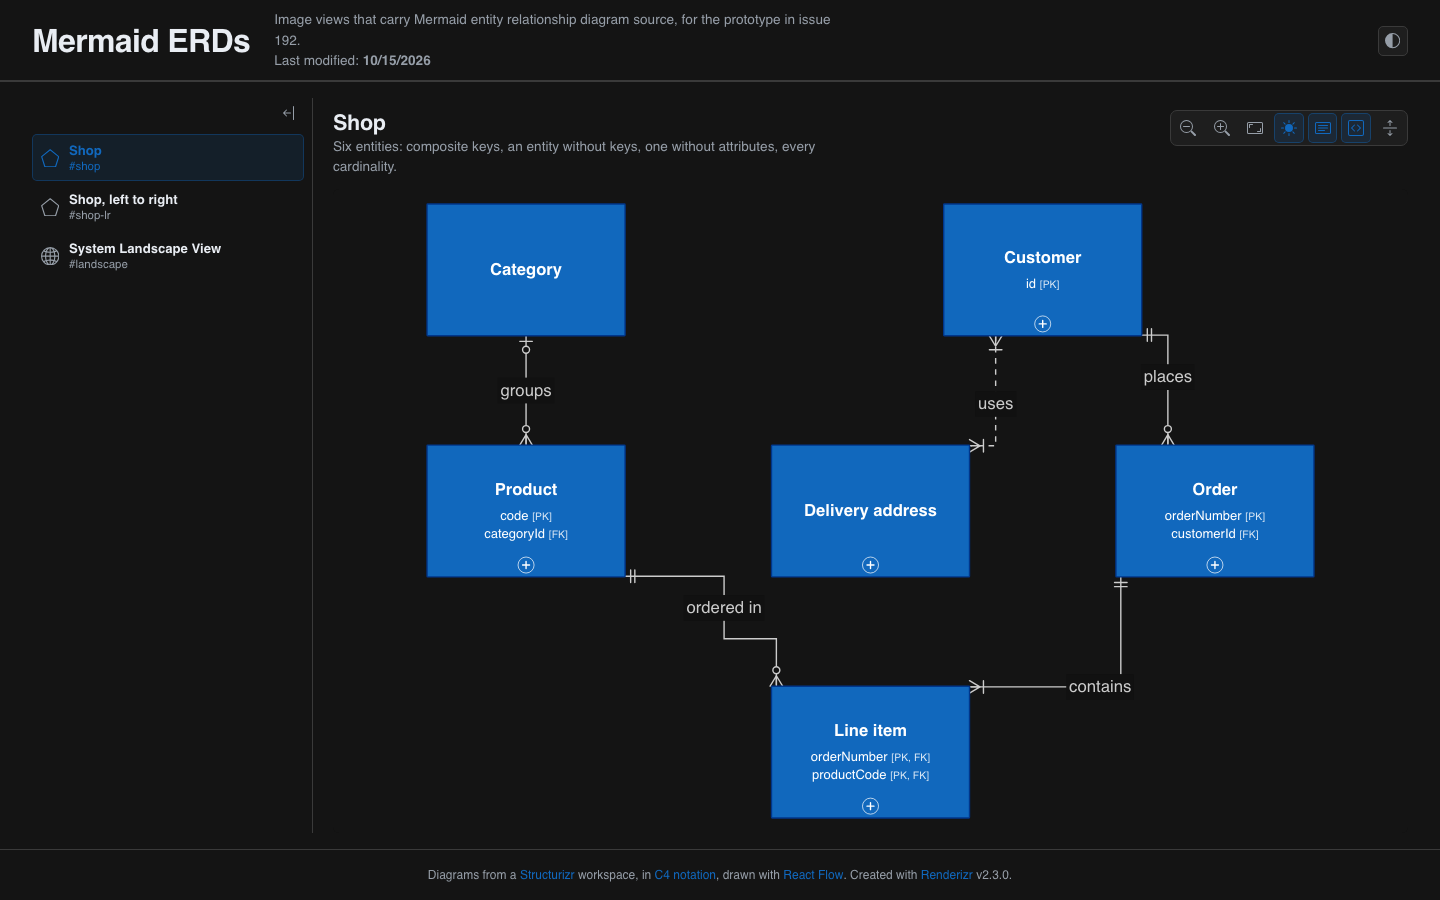
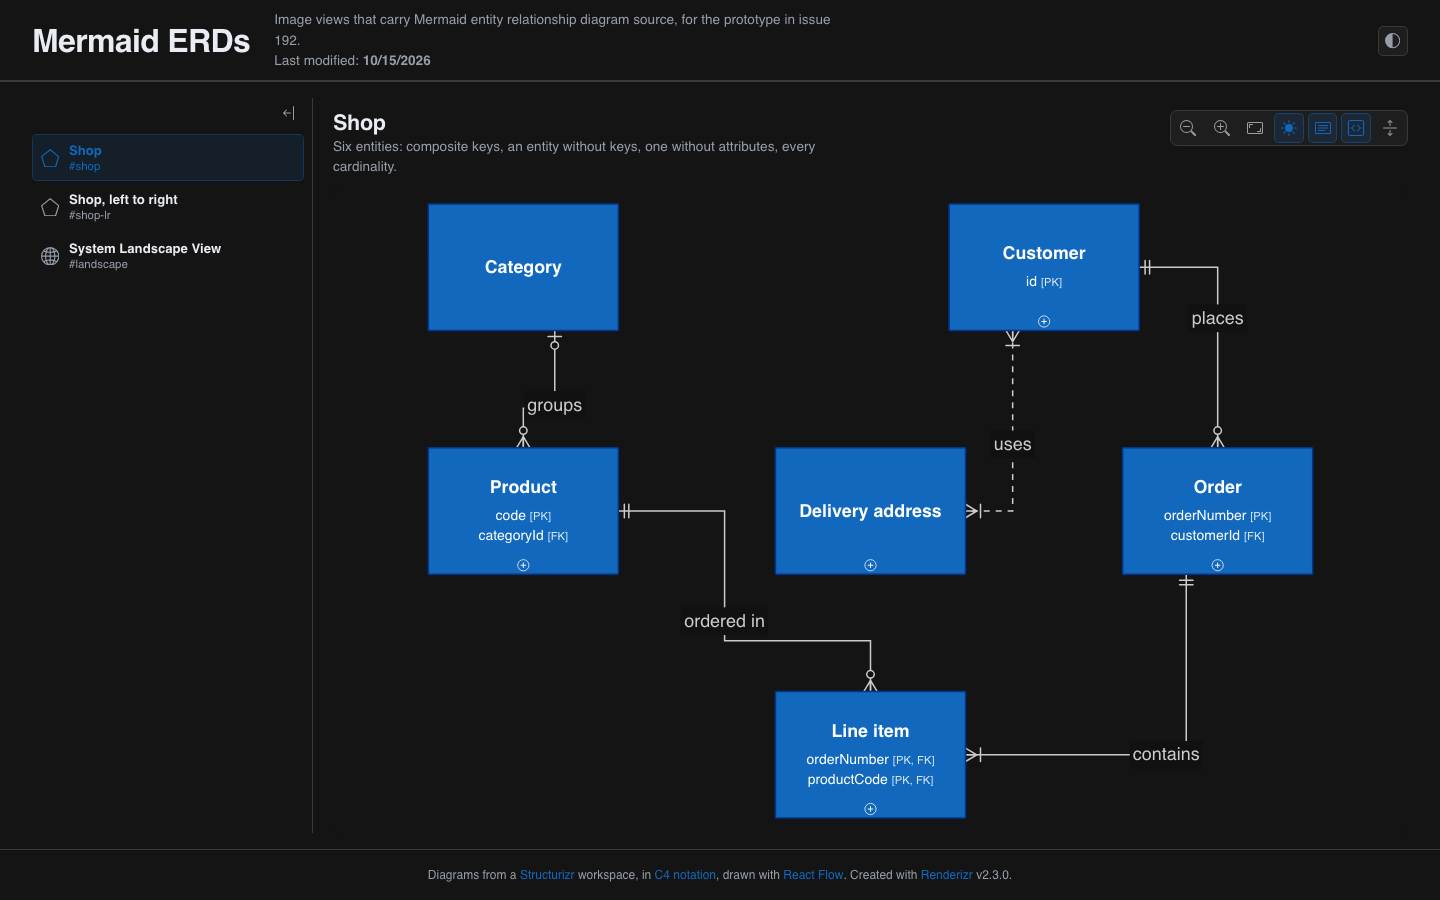
chore: center Mermaid edge ends, keep entities with no attributes collapsed and shrink the toggle

diff --git a/src/engine/geometry/routing/sides.ts b/src/engine/geometry/routing/sides.ts
@@ -176,6 +176,11 @@ export type EdgeEnd = {
      * (ADR 19).
      */
     routed?: boolean;
+    /**
+     * PROTOTYPE (issue 192): a Mermaid edge's end, spread evenly around the
+     * side's center, in aim order, in place of aiming at the far end.
+     */
+    centered?: boolean;
 };
 
 /** Where an end sorts on its side: loop ends at either extreme. */
@@ -302,9 +307,27 @@ export function spreadEnds(
         const aim = (end: EdgeEnd) => aims.get(end)!;
         const sorted = onSide.sort((a, b) => compareEnds(a, b, aim));
         const gap = (span.to - span.from) / (sorted.length + 1);
-        const wanted = sorted.map((end, i) =>
-            end.toward ? span.from + (i + 1) * gap : aim(end),
+        let wanted = sorted.map((end, i) =>
+            end.toward || end.centered ? span.from + (i + 1) * gap : aim(end),
         );
+        // PROTOTYPE (issue 192): the bottom center holds an entity's toggle,
+        // so an odd number of Mermaid ends there takes one slot more and
+        // leaves out the one on the far side from where they aim.
+        if (
+            side === "bottom" &&
+            sorted.length % 2 === 1 &&
+            sorted.every((end) => end.centered)
+        ) {
+            const slot = (span.to - span.from) / (sorted.length + 2);
+            const slots = Array.from(
+                { length: sorted.length + 1 },
+                (_, i) => span.from + (i + 1) * slot,
+            );
+            const middle = (span.from + span.to) / 2;
+            const mean =
+                sorted.reduce((sum, end) => sum + aim(end), 0) / sorted.length;
+            wanted = mean < middle ? slots.slice(0, -1) : slots.slice(1);
+        }
         const placed = keepApart(wanted, gap, span);
         for (const [i, end] of sorted.entries()) along.set(end.id, placed[i]);
     }

diff --git a/src/engine/react-flow/island.tsx b/src/engine/react-flow/island.tsx
@@ -407,14 +407,14 @@ function EntityBody({ data }: { data: ElementBox }) {
             style={{
                 position: "absolute",
                 left: "50%",
-                bottom: 5,
+                bottom: 4,
                 transform: "translateX(-50%)",
-                width: 24,
-                height: 24,
+                width: 16,
+                height: 16,
                 padding: 0,
                 display: "grid",
                 placeItems: "center",
-                border: "1.5px solid currentColor",
+                border: "1px solid currentColor",
                 borderRadius: "50%",
                 background: "transparent",
                 color: "inherit",
@@ -422,7 +422,7 @@ function EntityBody({ data }: { data: ElementBox }) {
                 pointerEvents: "all",
             }}
         >
-            <svg width="16" height="16" viewBox="0 0 16 16" aria-hidden="true">
+            <svg width="10" height="10" viewBox="0 0 16 16" aria-hidden="true">
                 <path
                     d={entity.collapsed ? "M3 8h10M8 3v10" : "M3 8h10"}
                     fill="none"

diff --git a/src/engine/react-flow/graph.ts b/src/engine/react-flow/graph.ts
@@ -729,9 +729,11 @@ function drawView(
                 : layOutEntity(
                       placed.element.name,
                       JSON.parse(attributes) as Attribute[],
-                      labels.entityOverrides?.[entityId] ??
-                          labels.entitiesCollapsed ??
-                          true,
+                      // An entity with no attributes never expands.
+                      attributes === "[]" ||
+                          (labels.entityOverrides?.[entityId] ??
+                              labels.entitiesCollapsed ??
+                              true),
                       labels.descriptions,
                       style.fontSize,
                       measure,

diff --git a/src/engine/geometry/routing/route-view.ts b/src/engine/geometry/routing/route-view.ts
@@ -167,6 +167,7 @@ export function routeView(
             far: vertices[0] ?? centerOf(to),
             order: index,
             routed: vertices.length > 0,
+            centered: (edge.endRoom ?? 0) > 0,
         });
         addEnd(target.id, {
             id: targetEnd(index),
@@ -174,6 +175,7 @@ export function routeView(
             far: vertices[vertices.length - 1] ?? centerOf(from),
             order: index,
             routed: vertices.length > 0,
+            centered: (edge.endRoom ?? 0) > 0,
         });
     }
 

diff --git a/src/engine/geometry/entity.ts b/src/engine/geometry/entity.ts
@@ -32,7 +32,7 @@ export type EntityLayout = {
 const CELL_PADDING = 12;
 const HEADER_PADDING = 15;
 /** The band at the bottom of an entity that holds its plus or minus toggle. */
-export const TOGGLE_ROOM = 34;
+export const TOGGLE_ROOM = 24;
 
 const isKey = (attribute: Attribute) =>
     attribute.keys.includes("PK") || attribute.keys.includes("FK");

diff --git a/research/192-erd-entity-prototype.md b/research/192-erd-entity-prototype.md
@@ -39,6 +39,8 @@ Open the **Shop** or **Shop, left to right** view.
 - **Spacing.** With the flowchart's spacing, routes and labels crowded between close entities and hugged their sides. Mermaid's ERD spacing leaves room for two straight ends and a label in every gap of the fixture. Where a route's straight end lands near another entity, the router now keeps as much clearance as still leaves the end outside it, in place of none.
 - **Markers need straight ends.** Without a rule, the router bent routes closer to an entity than a marker is long, so markers broke across the knee, worst where entities sit close together. Two router changes fix every edge in the fixture: a stub as long as the marker at each end, and side choice that counts bends from the stubs (otherwise a side whose stub points away from the other entity wins on its midpoint and the route doubles back). Mermaid's rank separation (75) just fits two stubs at the default thickness (36 each).
 - **An entity with no key attribute** collapses to its bold name alone and keeps its toggle (Delivery address). An entity with no attributes draws no toggle (Category).
+- **Ends at the middle of a side.** Aiming each end at the other entity's center, as Structurizr does, put ends at the corners of the wide collapsed boxes. Mermaid edge ends now spread evenly around the middle of their side, in aim order. The bottom center holds the toggle, so an odd number of ends there takes one slot more and leaves the center free. The prototype also shifts ends under entities with no toggle, which adds a small jog (Category's `groups`); the build applies the shift only where a toggle is drawn.
+- **Entities with no attributes** always draw at the collapsed size, whatever the toolbar or a toggle says.
 - **Shared sides** still crowd where two ends meet one side (Customer's `uses` and `places` in some states); the spacing rule from the edge ends decision covers that.
 
 ## Left out
